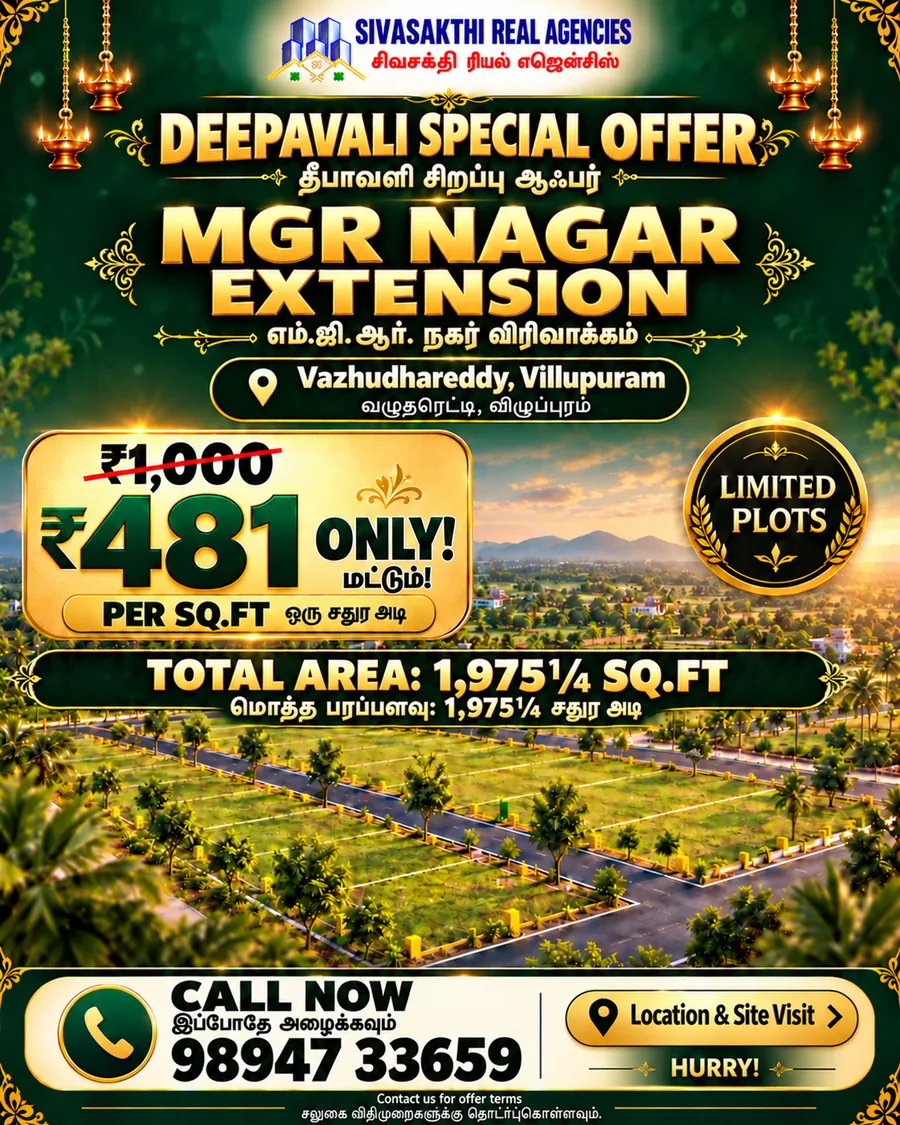
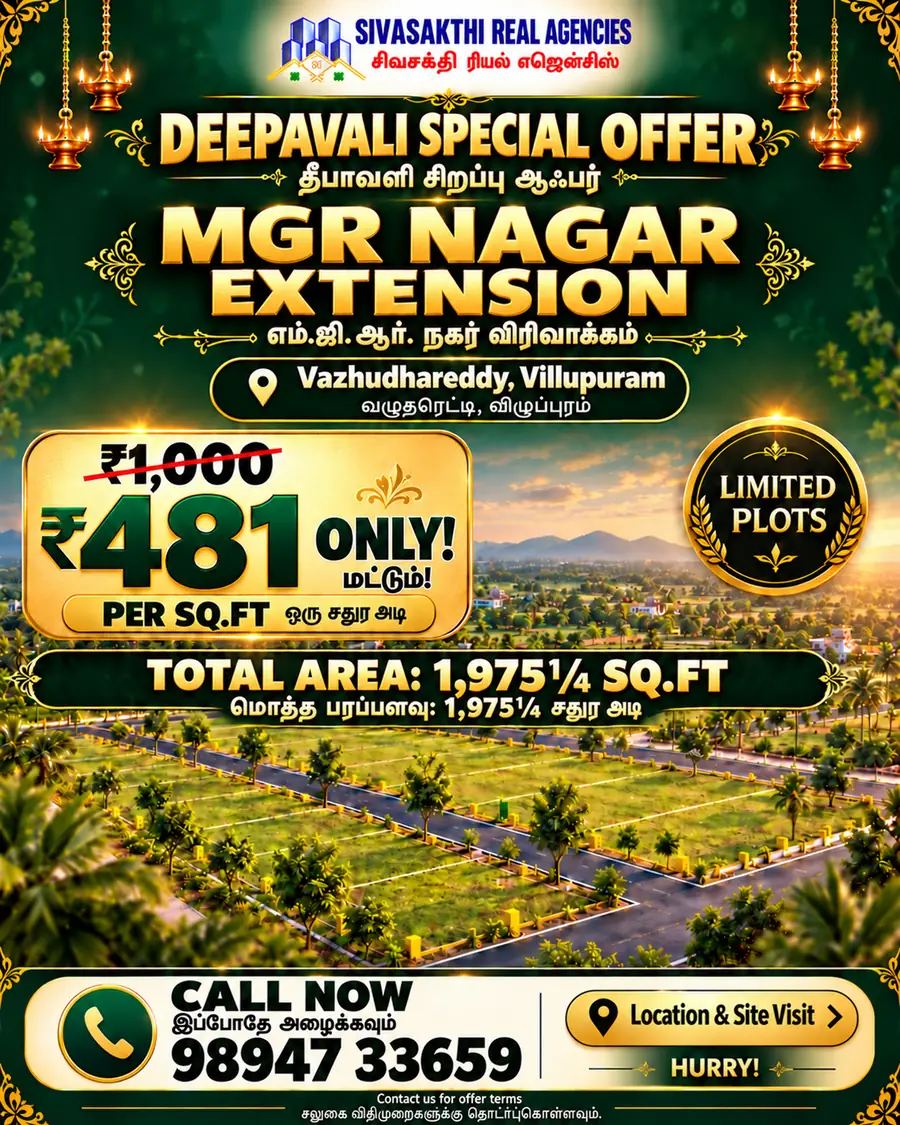
Inner pages: responsive hero photos, preload, lighter offer posters
From PageSpeed on the live Land page (90): hero photo was the 1536px file on
phones and not preloaded; layout plan and offer posters were full size.
- Page hero photos use 960/1536 srcset and are preloaded from the HTML
- Layout plan image responsive (960/1536)
- Offer posters re-encoded and given a 600px version for phones

Claude-Session: https://claude.ai/code/session_0184qZ8PSPXvJn18ncJ8C3xT

diff --git a/properties.html b/properties.html
@@ -59,6 +59,7 @@
  "description": "DTCP and RERA approved plots, farm land and houses for sale in Villupuram. We help owners sell land too."
 }
 </script>
+<link rel="preload" as="image" href="assets/img/aerial-960.webp?v=dbb1d9" imagesrcset="assets/img/aerial-960.webp?v=dbb1d9 960w, assets/img/aerial.webp?v=8f3699 1536w" imagesizes="100vw" fetchpriority="high">
 </head>
 <body>
 <div class="splash" aria-hidden="true"><div class="sp-in">
@@ -90,7 +91,7 @@
 </div>
 <main id="main">
 <section class="page-hero">
-  <div class="bg"><img src="assets/img/aerial.webp?v=8f3699" alt="Aerial view of a plot layout with tar roads and palm trees at sunrise" width="1600" height="900" fetchpriority="high"></div>
+  <div class="bg"><img src="assets/img/aerial-960.webp?v=dbb1d9" srcset="assets/img/aerial-960.webp?v=dbb1d9 960w, assets/img/aerial.webp?v=8f3699 1536w" sizes="100vw" alt="Aerial view of a plot layout with tar roads and palm trees at sunrise" width="1536" height="864" fetchpriority="high"></div>
   <canvas aria-hidden="true"></canvas>
   <div class="wrap">
     <p class="crumbs"><a href="index.html">Home</a><span aria-hidden="true">/</span><span>Land for sale</span></p>
@@ -126,7 +127,7 @@
       </div>
       <div class="plan-grid">
         <div class="plan-stage" id="planStage">
-          <img src="assets/img/topdown.webp?v=2f1a69" alt="Top-down drone view of plots around a road junction" width="1536" height="864" loading="lazy">
+          <img src="assets/img/topdown-960.webp?v=ea7f35" srcset="assets/img/topdown-960.webp?v=ea7f35 960w, assets/img/topdown.webp?v=2f1a69 1536w" sizes="(min-width:1240px) 1200px, 100vw" alt="Top-down drone view of plots around a road junction" width="1536" height="864" loading="lazy" decoding="async">
           <svg class="plan" id="planSvg" viewBox="0 0 1672 941" preserveAspectRatio="none" role="group" aria-label="Plots on the layout plan">
             <g class="plan-plots"></g>
             <g class="plan-labels"><text x="300" y="462">40 FT MAIN ROAD</text><text x="1290" y="462">40 FT MAIN ROAD</text><text x="822" y="250" transform="rotate(-90 822 250)">30 FT ROAD</text></g>
@@ -225,6 +226,6 @@
 <script src="assets/js/data.js?v=fbedc2b7" defer></script>
 <script src="assets/js/core.js?v=a057ea4c" defer></script>
 <script src="assets/js/plan.js?v=f4c4b4cc" defer></script>
-<script src="assets/js/offers.js?v=6c2dd1a5" defer></script>
+<script src="assets/js/offers.js?v=8b658cad" defer></script>
 </body>
 </html>

diff --git a/assets/js/offers.js b/assets/js/offers.js
@@ -16,7 +16,7 @@
     const tel = "+91" + p.phone.replace(/\D/g, "");
     return `<article class="oc" style="--i:${i}">
       <button class="oc-poster" type="button" data-poster="${esc(p.poster)}" aria-label="View the ${esc(p.name)} offer poster">
-        <img src="assets/img/${esc(p.poster)}.webp?v=2" alt="${esc(p.name)} Deepavali offer poster" width="900" height="1125" loading="lazy">
+        <img src="assets/img/${esc(p.poster)}-600.webp?v=3" srcset="assets/img/${esc(p.poster)}-600.webp?v=3 600w, assets/img/${esc(p.poster)}.webp?v=3 900w" sizes="(min-width:900px) 420px, 88vw" alt="${esc(p.name)} Deepavali offer poster" width="900" height="1125" loading="lazy" decoding="async">
         <span class="oc-shine" aria-hidden="true"></span><span class="oc-zoom">View poster</span>
       </button>
       <div class="oc-body">
@@ -65,7 +65,7 @@
   const box = document.getElementById("posterBox"), boxImg = box && box.querySelector("img");
   grid.addEventListener("click", e => {
     const b = e.target.closest(".oc-poster"); if (!b || !box) return;
-    boxImg.src = `assets/img/${b.dataset.poster}.webp?v=2`; boxImg.alt = b.getAttribute("aria-label").replace("View the ", "");
+    boxImg.src = `assets/img/${b.dataset.poster}.webp?v=3`; boxImg.alt = b.getAttribute("aria-label").replace("View the ", "");
     if (box.showModal) { box.showModal(); FX.lenis && FX.lenis.stop(); } else box.setAttribute("open", "");
   });
   if (box) {

diff --git a/contact.html b/contact.html
@@ -59,6 +59,7 @@
  "description": "DTCP and RERA approved plots, farm land and houses for sale in Villupuram. We help owners sell land too."
 }
 </script>
+<link rel="preload" as="image" href="assets/img/mistylayout-960.webp?v=951309" imagesrcset="assets/img/mistylayout-960.webp?v=951309 960w, assets/img/mistylayout.webp?v=117aed 1536w" imagesizes="100vw" fetchpriority="high">
 </head>
 <body>
 <div class="splash" aria-hidden="true"><div class="sp-in">
@@ -90,7 +91,7 @@
 </div>
 <main id="main">
 <section class="page-hero">
-  <div class="bg"><img src="assets/img/mistylayout.webp?v=117aed" alt="Aerial view of plots with misty hills and a lake at dawn" width="1600" height="900" fetchpriority="high"></div>
+  <div class="bg"><img src="assets/img/mistylayout-960.webp?v=951309" srcset="assets/img/mistylayout-960.webp?v=951309 960w, assets/img/mistylayout.webp?v=117aed 1536w" sizes="100vw" alt="Aerial view of plots with misty hills and a lake at dawn" width="1536" height="864" fetchpriority="high"></div>
   <canvas aria-hidden="true"></canvas>
   <div class="wrap">
     <p class="crumbs"><a href="index.html">Home</a><span aria-hidden="true">/</span><span>Contact</span></p>

diff --git a/sell.html b/sell.html
@@ -59,6 +59,7 @@
  "description": "DTCP and RERA approved plots, farm land and houses for sale in Villupuram. We help owners sell land too."
 }
 </script>
+<link rel="preload" as="image" href="assets/img/stonesunset-960.webp?v=0c4ebf" imagesrcset="assets/img/stonesunset-960.webp?v=0c4ebf 960w, assets/img/stonesunset.webp?v=b5511c 1536w" imagesizes="100vw" fetchpriority="high">
 </head>
 <body>
 <div class="splash" aria-hidden="true"><div class="sp-in">
@@ -90,7 +91,7 @@
 </div>
 <main id="main">
 <section class="page-hero">
-  <div class="bg"><img src="assets/img/stonesunset.webp?v=b5511c" alt="Plots marked with granite stones at sunrise" width="1600" height="900" fetchpriority="high"></div>
+  <div class="bg"><img src="assets/img/stonesunset-960.webp?v=0c4ebf" srcset="assets/img/stonesunset-960.webp?v=0c4ebf 960w, assets/img/stonesunset.webp?v=b5511c 1536w" sizes="100vw" alt="Plots marked with granite stones at sunrise" width="1536" height="864" fetchpriority="high"></div>
   <canvas aria-hidden="true"></canvas>
   <div class="wrap">
     <p class="crumbs"><a href="index.html">Home</a><span aria-hidden="true">/</span><span>Sell land</span></p>

diff --git a/index.html b/index.html
@@ -383,6 +383,6 @@
 <script src="assets/js/core.js?v=a057ea4c" defer></script>
 <script src="assets/js/hero.js?v=29b42697" defer></script>
 <script src="assets/js/scenes.js?v=5e03a516" defer></script>
-<script src="assets/js/offers.js?v=6c2dd1a5" defer></script>
+<script src="assets/js/offers.js?v=8b658cad" defer></script>
 </body>
 </html>
